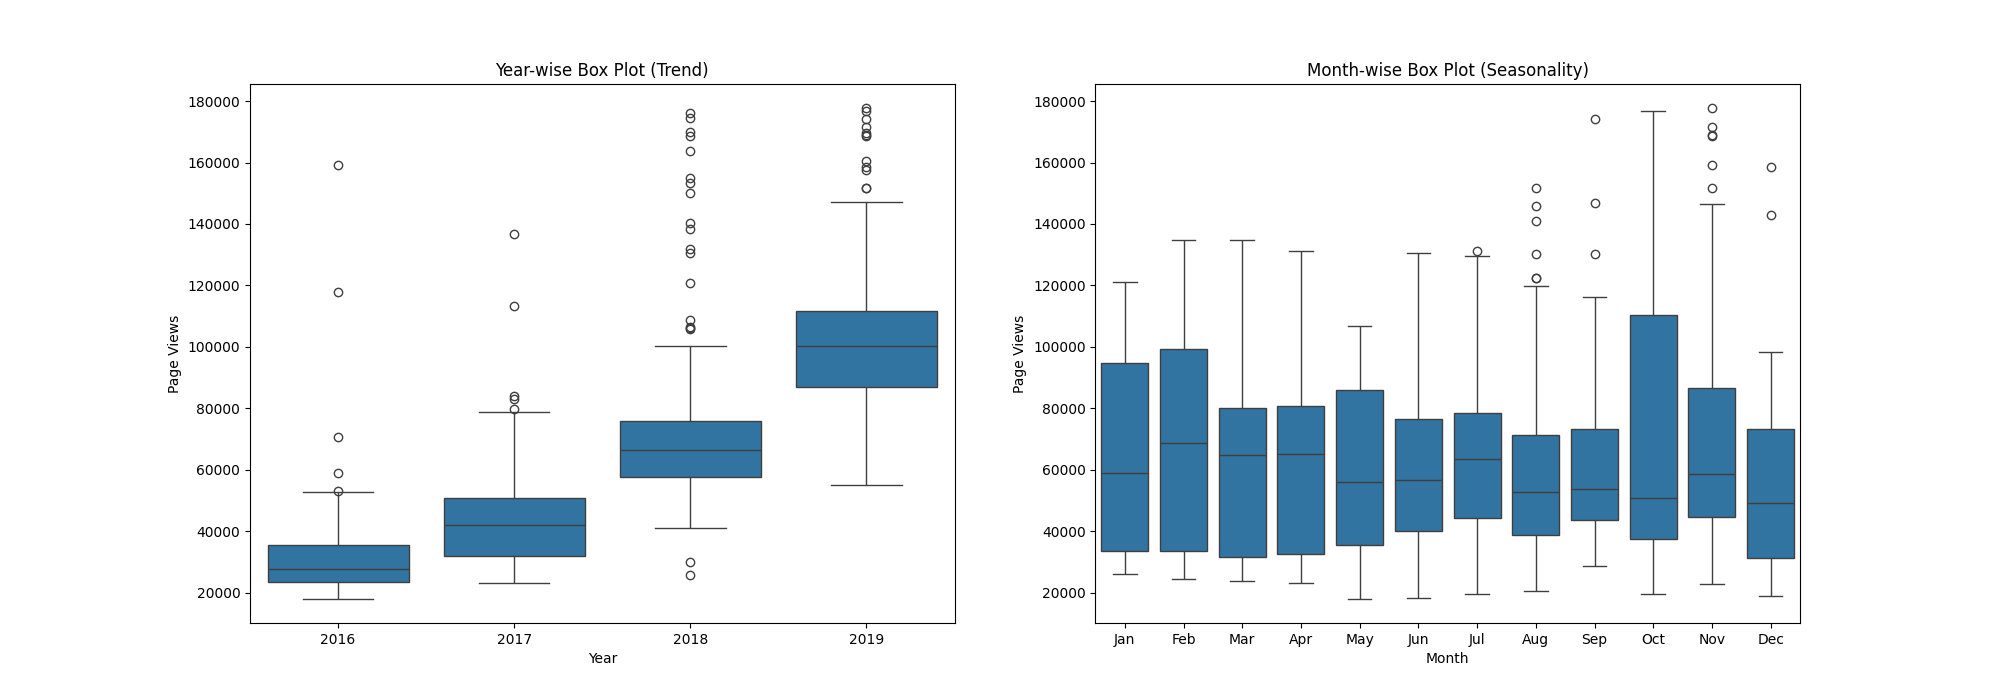
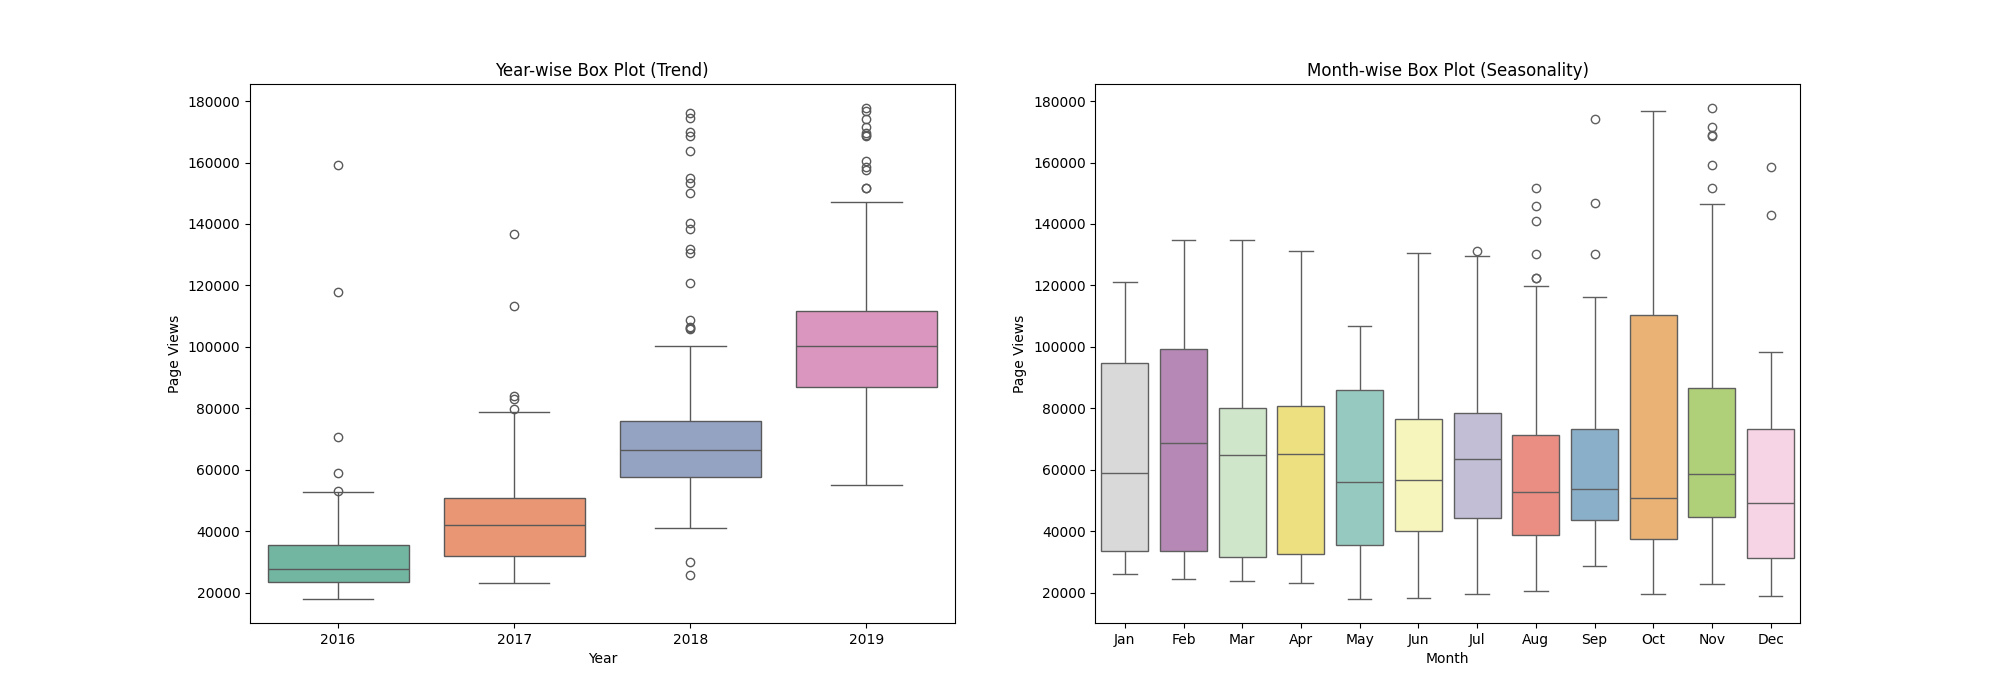
Project

diff --git a/time_series_visualizer.py b/time_series_visualizer.py
@@ -66,13 +66,28 @@ def draw_box_plot():
     fig, axes = plt.subplots(1, 2, figsize=(20, 7))
 
     # Year-wise Box Plot
-    sns.boxplot(x='year', y='value', data=df_box, ax=axes[0])
+    sns.boxplot(
+        x='year', 
+        y='value', 
+        data=df_box, 
+        ax=axes[0],
+        hue='year',
+        palette='Set2',
+        legend=False)
     axes[0].set_title('Year-wise Box Plot (Trend)')
     axes[0].set_xlabel('Year')
     axes[0].set_ylabel('Page Views')
 
     # Month-wise Box Plot
-    sns.boxplot(x='month', y='value', data=df_box, order=month_order, ax=axes[1])
+    sns.boxplot(
+        x='month', 
+        y='value', 
+        data=df_box, 
+        order=month_order, 
+        ax=axes[1],
+        hue='month', 
+        palette='Set3',
+        legend=False)
     axes[1].set_title('Month-wise Box Plot (Seasonality)')
     axes[1].set_xlabel('Month')
     axes[1].set_ylabel('Page Views')
